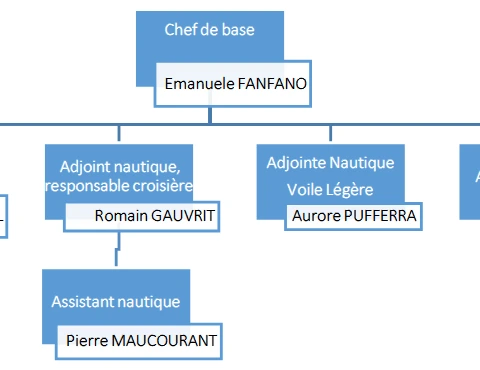
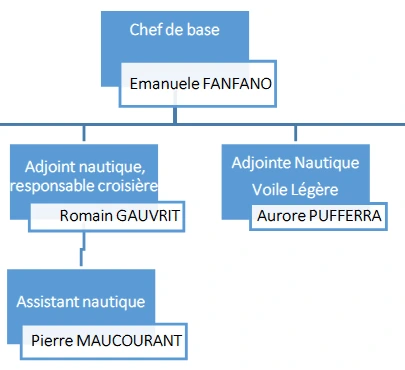
Soutenance #commande : chute reformulée, organigramme recadré sans fragments autour de Romain
Claude-Session: https://claude.ai/code/session_01MULeTtpJYk8dUQ3g4xutyS

diff --git a/soutenance.html b/soutenance.html
@@ -88,7 +88,7 @@
   <h2 class="titre">D'où vient la <span class="highlight">question</span></h2>
   <div class="trois-voies trois-sources">
     <div>
-      <div class="capture organigramme"><img src="assets/images/soutenance/organigramme-marseillan.webp" alt="Extrait de l'organigramme de la base de Marseillan : sous le chef de base, Romain Gauvrit, adjoint nautique et responsable croisière, et son assistant nautique"></div>
+      <div class="capture organigramme"><img src="assets/images/soutenance/organigramme-marseillan.webp" alt="Extrait de l'organigramme de la base de Marseillan : sous le chef de base, Romain Gauvrit, adjoint nautique et responsable croisière, son assistant nautique et l'adjointe voile légère"></div>
       <h3>Les échanges avec Romain</h3>
       <p>adjoint nautique, responsable croisière</p>
     </div>
@@ -104,8 +104,8 @@
       <p>et l'attention que j'y porte à la coopération</p>
     </div>
   </div>
-  <p class="corps appui">La technique est très outillée.
-  <strong>Le vivre-ensemble ne l'est pas.</strong></p>
+  <p class="corps appui">Le technique est très outillé,
+  <strong>le vivre-ensemble l'est beaucoup moins.</strong></p>
 </section>
 
 <!-- ═══ ACTE 2 · TERRAIN, CADRE, PUBLICS ═══ -->
